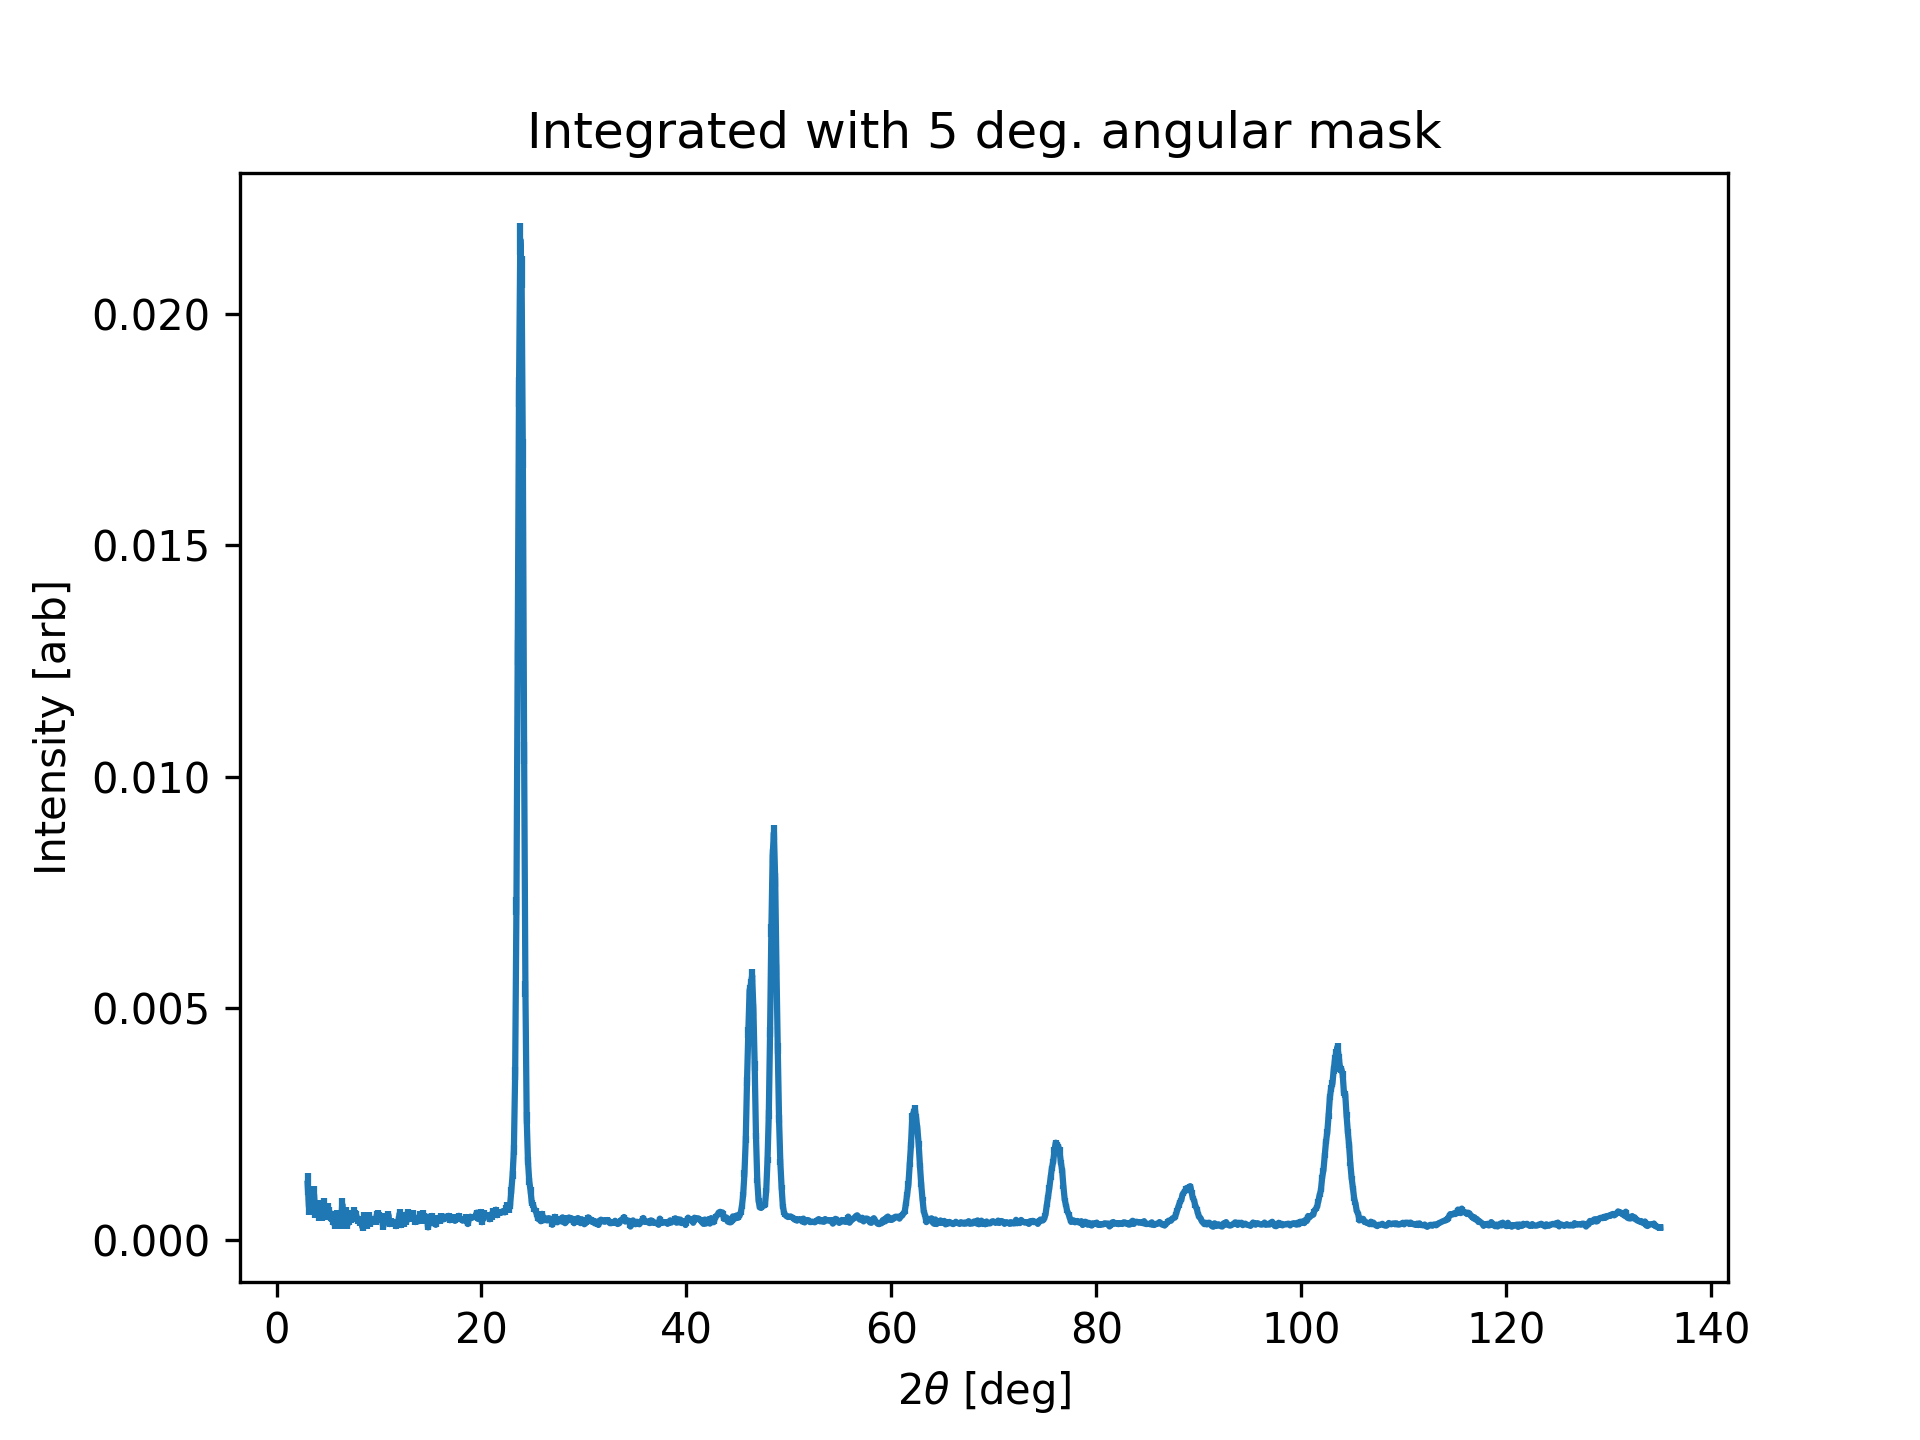
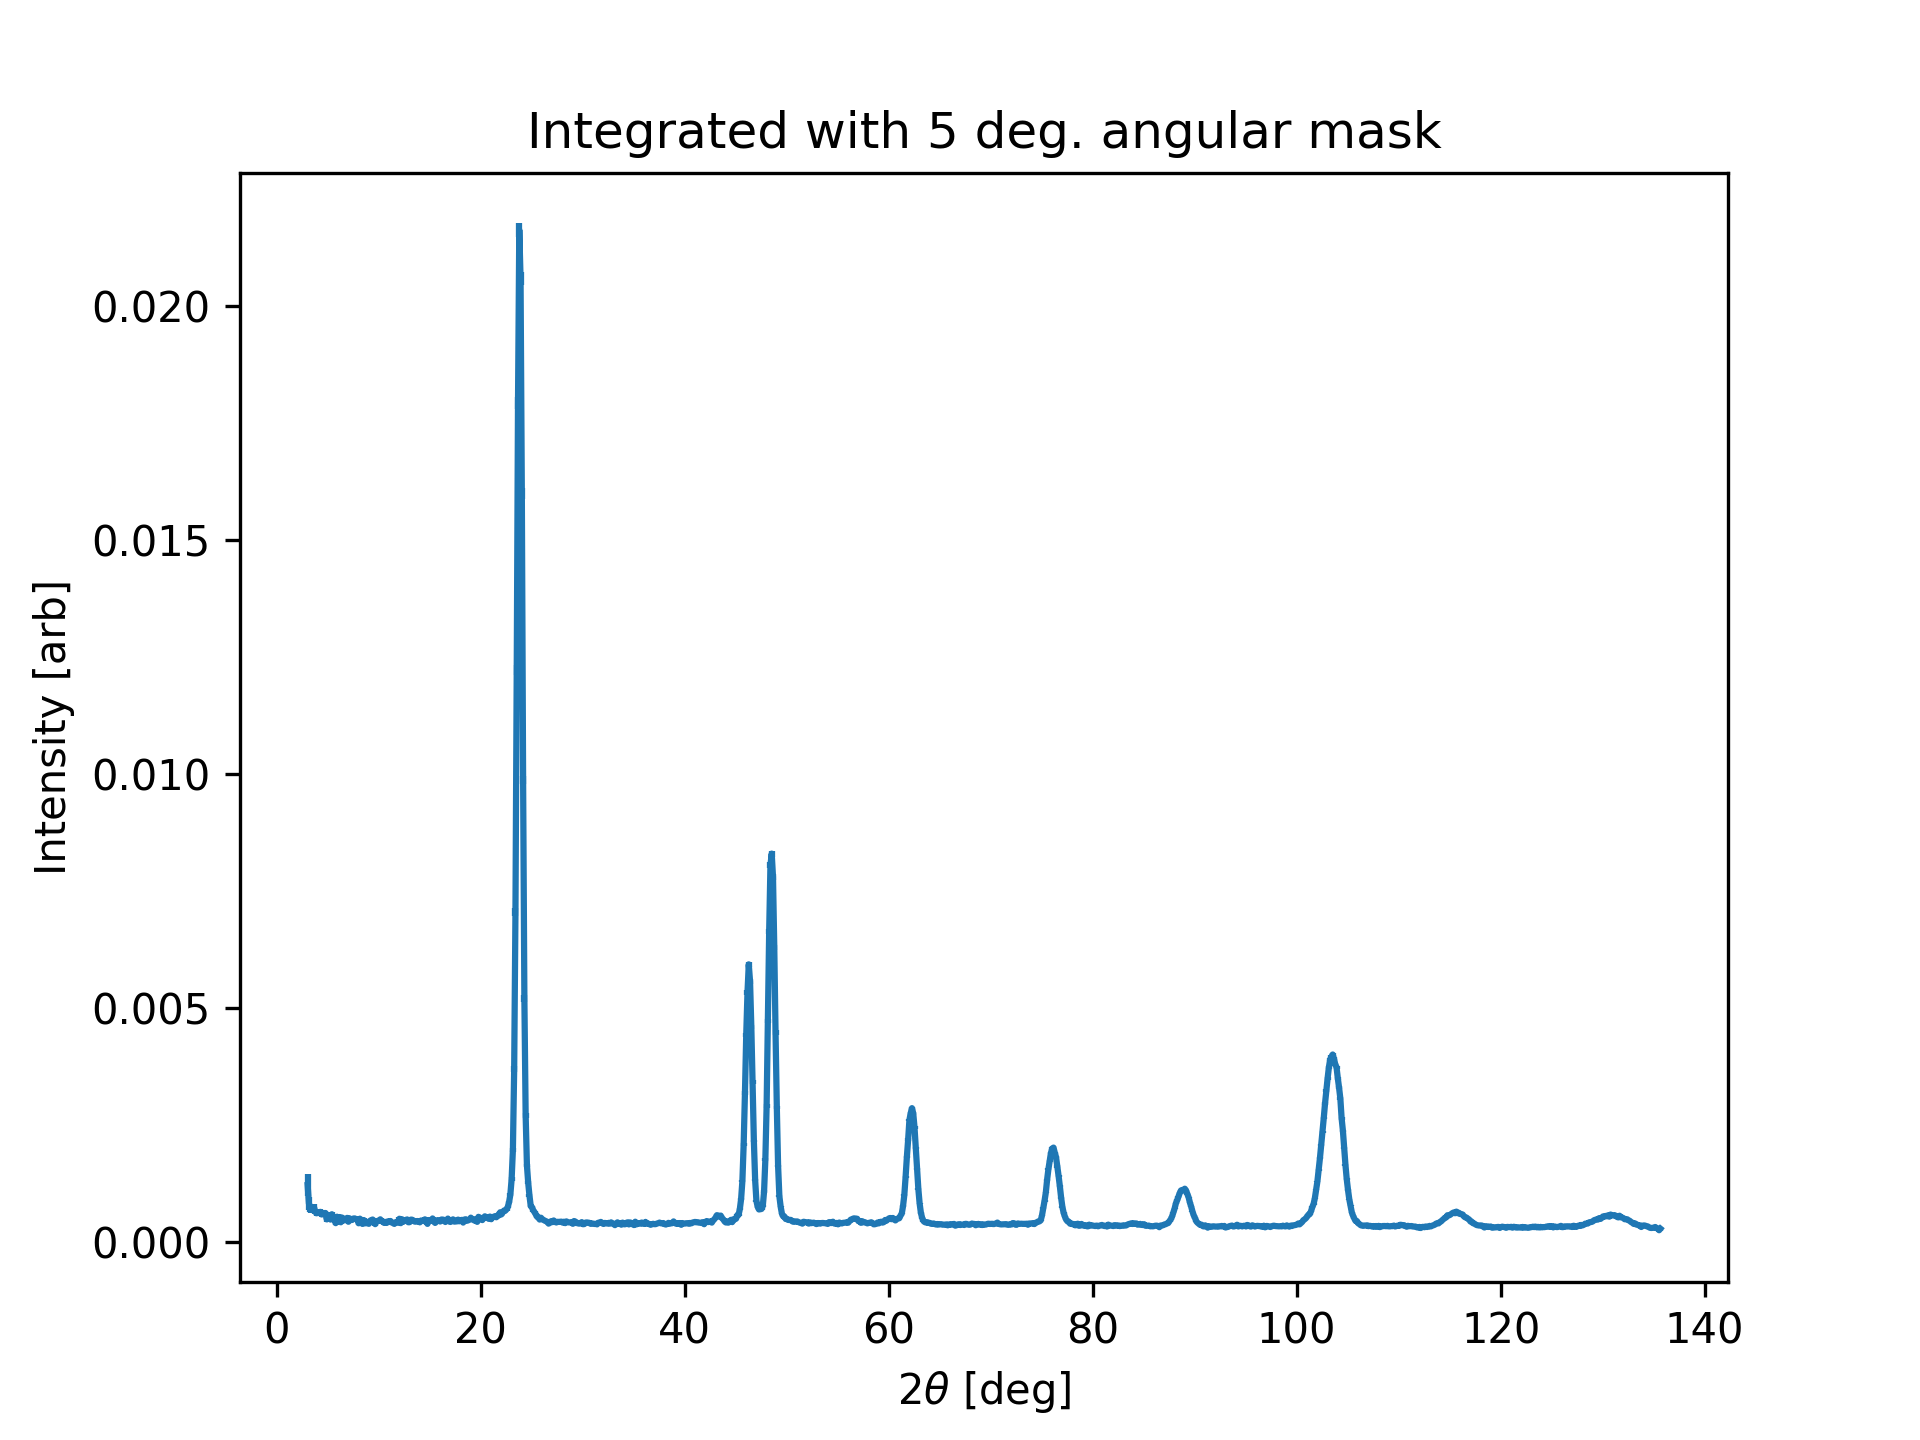
update of tutorials

diff --git a/docs/Tutorials/View3D/Viewer3D_align.rst b/docs/Tutorials/View3D/Viewer3D_align.rst
@@ -1,6 +1,6 @@
 Viewer 3D align
 ^^^^^^^^^^^^^^^
-To generate a UB matirx, it is convinient to use the 3D Viewer. We recommend to use the alignToRefs function. By running 3D Viewer with rlu=False, you can read of the coordinates of two reflections in Q-space. These coordinates and the corresponding HKL will then be used for making a UB. You can change the orientation of the 3D Viewer by pressing 0, 1 and 2. 
+To generate a UB matirx, it is convinient to use the 3D Viewer. We recommend to use the alignToRefs function. By running 3D Viewer with rlu=False, you can read of the coordinates of two reflections in Q-space. These coordinates and the corresponding HKL will then be used for making a UB. You can change the orientation of the 3D Viewer by pressing 0, 1 and 2. When apropriate Q-coordinates are identified, they can be used to align and plot the data in HKL, as showed in the code below. 
 
 .. code-block:: python
    :linenos:
@@ -47,9 +47,9 @@ To generate a UB matirx, it is convinient to use the 3D Viewer. We recommend to 
    fig.savefig('figure0.png',format='png')
    
 
-The above code takes the data from the A3 scan files 12153-12154 from 2022 and generates the Viewer 3D utilizing a voxel size of 0.01 x 0.01 x 0.01 in Q-space. By default, the viewer starts out in projection 2, i.e. with Qz being the axis stepped through. When handling the data directly it is more convenient to utilize the keyboard shortcuts but in a scripting interface these are not available. Instead one can utilize the *.setPlane* and *.changeAxis* methods. In addition, the color scale has been tweaked such that weaker peaks are visible. It is possible to slightly tweak the color scale directly in the Viewer 3D by using the sliders to the right of the color bar. Notice: When saving the figure these slides are rendered invisible. The end results are shown below:
+The above code takes the data from the A3 scan files 12153-12154 from 2022 and generates the Viewer 3D utilizing a voxel size of 0.01 x 0.01 x 0.01 in Q-space, and plot the data in HKL space. By default, the viewer starts out in projection 2, i.e. with Qz being the axis stepped through. The end results are shown below:
 
-First data overview with Qz slightly positive and Qx and Qy in the plane
+First data overview the HK0-plane
 
 .. figure:: CenterMiddel_aligned_hk0.png 
   :width: 50%

diff --git a/docs/Tutorials/Powder/Powder_Diffractogram.rst b/docs/Tutorials/Powder/Powder_Diffractogram.rst
@@ -1,6 +1,6 @@
 Plot of diffraction patterns
 ^^^^^^^^^^^^^^^^^^^^^^^^^^^^
-When a powder sample has been measured at DMC it is saved in hdf files. Several DataFiles can be combined into a common DataSet and plotted. The follwing code takes a DatsSet, here consisting of one single DataFile, and plot it. Two different settings for the binning method is used *correctedTwoTheta* equal to *True* and *False*. When *False* a naive summation across the 2D detector is performed where the out-of-plane component is not taken into account. That is, summation is performed vertically on the detector. For powder patterns around 90\ :sup:`o`, this is only a very minor error, but for scattering close to the direct beam a significant error is introduced. Instead, utilizing *correctedTwoTheta = True* is the correct way. The scattering 3D vector is calculated for each individual pixel on the 2D detector and it's length is calculated.
+When a powder sample has been measured at DMC it is saved in hdf files. Several DataFiles can be combined into a common DataSet and plotted. The follwing code takes a DatsSet, here consisting of several DataFiles, and plot the dataSet. Two different settings for the binning method is used *correctedTwoTheta* equal to *True* and *False*. When *False* a naive summation across the 2D detector is performed where the out-of-plane component is not taken into account. That is, summation is performed vertically on the detector. For powder patterns around 90\ :sup:`o`, this is only a very minor error, but for scattering close to the direct beam a significant error is introduced. Instead, utilizing *correctedTwoTheta = True* is the correct way. The scattering 3D vector is calculated for each individual pixel on the 2D detector and it's length is calculated.
 
 .. code-block:: python
    :linenos:
@@ -9,7 +9,7 @@ When a powder sample has been measured at DMC it is saved in hdf files. Several 
    import matplotlib.pyplot as plt 
    
    # To plot powder data we give the file number, or list of filenumbers as a string and the folder of the raw data
-   scanNumbers = '1285'
+   scanNumbers = '1285-1290'
    folder = 'data'
    year = 2022    
    

diff --git a/docs/Tutorials/Make_Data_File.rst b/docs/Tutorials/Make_Data_File.rst
@@ -6,6 +6,7 @@ In this tutorial we demonstrate how to make DataFiles and DataSets in DMCpy. You
    :linenos:
 
    from DMCpy import DataFile,DataSet, _tools
+   import numpy as np
    
    # Create a DataFile and DataSet for 565
    file = r'data\dmc2021n000565.hdf'
@@ -15,7 +16,7 @@ In this tutorial we demonstrate how to make DataFiles and DataSets in DMCpy. You
    
    
    # Create a DataFile and DataSet for 565 with correct twoTheta
-   twoThetaOffset = 18.0
+   twoThetaOffset = 1.0
    
    df = DataFile.loadDataFile(file,twoThetaPosition=twoThetaOffset)
    ds = DataSet.DataSet(df)
@@ -34,5 +35,18 @@ In this tutorial we demonstrate how to make DataFiles and DataSets in DMCpy. You
    dataFiles = [DataFile.loadDataFile(dFP,twoThetaPosition=twoThetaOffset) for dFP in _tools.fileListGenerator(scanNumbers,folder)]
    
    ds = DataSet.DataSet(dataFiles)
+   
+   
+   # We can also add a unit cell to the dataFiles when loaded:
+   scanNumbers = '12153' 
+   folder = 'data/SC'
+   year = 2022
+  
+   filePath = _tools.fileListGenerator(scanNumbers,folder,year=year) 
+   
+   unitCell = np.array([ 7.218, 7.218, 18.183, 90.0, 90.0, 120.0])
+   
+   # # # load dataFiles
+   dataFiles = [DataFile.loadDataFile(dFP,unitCell = unitCell) for dFP in filePath]
    
 

diff --git a/docs/Tutorials/Powder/2D_Detector_Plot.rst b/docs/Tutorials/Powder/2D_Detector_Plot.rst
@@ -76,7 +76,7 @@ The simplets data set on the DMC instrument is that of a powder measured with on
    fig5.savefig('figure4.png',format='png')
    
 
-The software use the defualt normalization from the calibration file which is matched with the file number. As default a mask for the second top line of the detector is used as it has an issue. The code show how the mask can be removed, how an angular mask can be added, and how a line mask cna be added. Running the above code generates the following images showing neutron intensity as function of 2Theta and out of plane position: Note that two theta is negative, which is defualt at DMC. 
+The software use the defualt normalization from the calibration file which is matched with the file number. As default a mask for the top horizontal and the last vertical lines of the detector is used as these have an issue. The code show how the mask can be removed, how an angular mask can be added, and how a line mask cna be added. Running the above code generates the following images showing neutron intensity as function of 2Theta and out of plane position: Note that two theta is negative, which is defualt at DMC. 
  .. figure:: Plot2DPowderDetector_new_and_better.png
   :width: 80%
   :align: center

diff --git a/docs/Tutorials/subtract/subtract.rst b/docs/Tutorials/subtract/subtract.rst
@@ -38,7 +38,10 @@ It can be very useful to subtract two data sets from each other, e.g. to look fo
       ds_sub = DataSet.DataSet(dataFiles_sub)
       
       # we can choose if we write the subtracted data into the original data file or if we make a new file.
-      ds.directSubtractDS(ds_sub,saveToFile=False,saveToNewFile='subtractedFile.hdf')
+      ds.directSubtractDS(ds_sub,saveToFile=True,saveToNewFile='subtracted_data.hdf')
+   
+      #saveToFile (bool): If True, save background to data file, else save in RAM (default False)
+      #saveToNewFile (string) If provided, and saveToFile is True, save a new file with the background subtraction (default False)
    
    # run the Interactive Viewer
    IA2 = df.InteractiveViewer()
